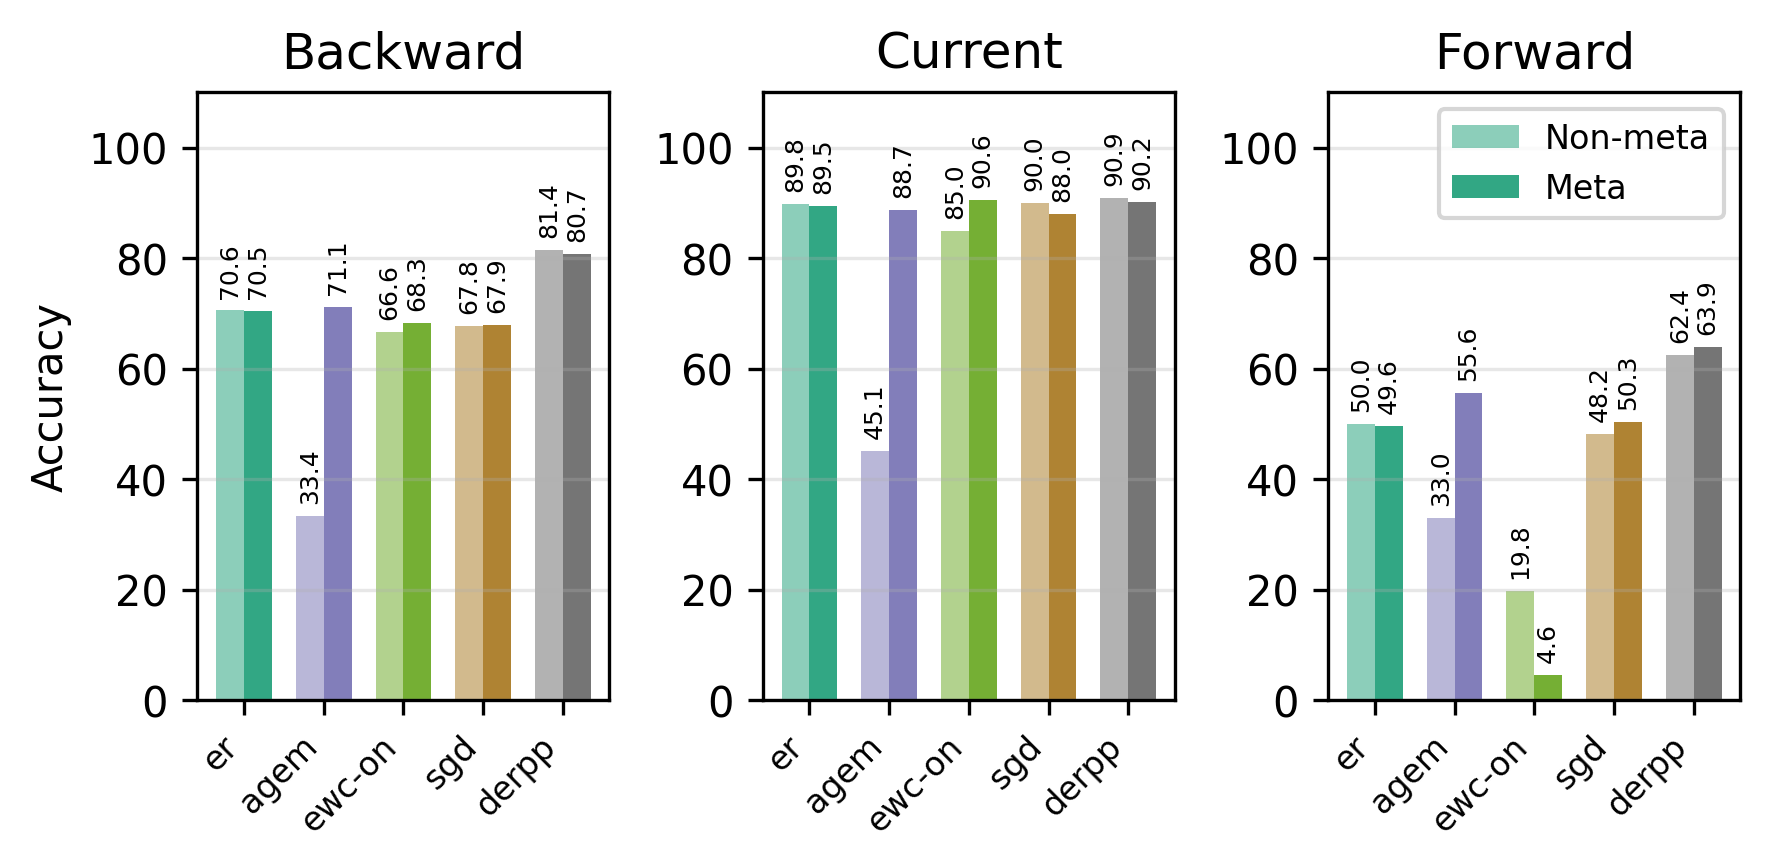
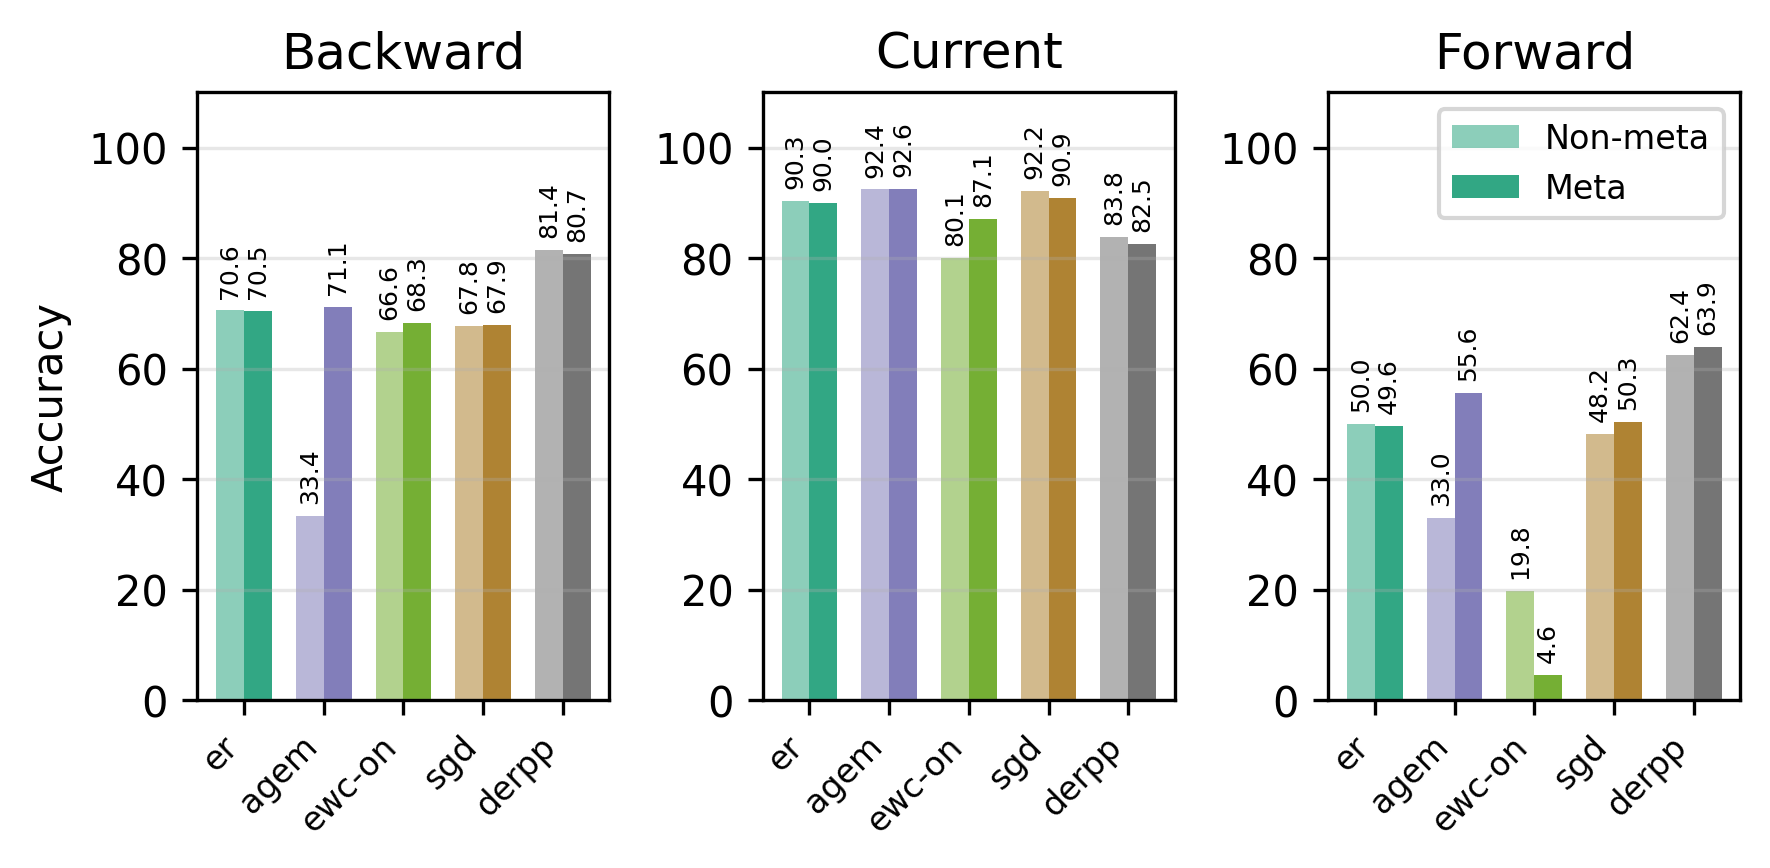
plots

Changed region(s): [[0.435, 0.1555, 0.6525, 0.5288]]

diff --git a/results_for_paper.py b/results_for_paper.py
@@ -1015,14 +1015,15 @@ def plot_meta_improvement(
     results_dir: Path = RESULTS_DIR,
     with_meta: bool = True,
     include_20task: bool = False,
-    forward_only: bool = False
+    forward_only: bool = False,
+    num_lookahead: int = 0
 ) -> None:
     """Plot meta vs non-meta method comparison for backward, current, and forward tasks.
     
     Creates a plot with 3 columns in a single row (or 1 column if forward_only=True):
     - Left: Backward tasks (eval_task_id < checkpoint_num)
     - Middle: Current tasks (eval_task_id == checkpoint_num)
-    - Right: Forward tasks (eval_task_id > checkpoint_num)
+    - Right: Forward tasks (eval_task_id > checkpoint_num + num_lookahead if num_lookahead > 0)
     
     If forward_only=True, only plots the forward transfer column.
     
@@ -1037,6 +1038,7 @@ def plot_meta_improvement(
         with_meta: If True, include CSVs containing 'meta' in the name
         include_20task: If True, include CSVs with '20task' in the name
         forward_only: If True, only plot forward transfer column (default: False)
+        num_lookahead: Number of tasks to skip ahead when computing forward accuracy (default: 0)
     """
     if not results_dir.exists():
         print(f"Error: Results directory {results_dir} does not exist.")
@@ -1204,17 +1206,22 @@ def plot_meta_improvement(
                 k_subset_meta = meta_results[meta_results['k_value'] == k_val]
                 
                 if direction == 'forward':
-                    # Forward: eval_task_id > checkpoint_num
-                    data_non = k_subset_non[k_subset_non['eval_task_id'] > k_subset_non['checkpoint_num']]
-                    data_meta = k_subset_meta[k_subset_meta['eval_task_id'] > k_subset_meta['checkpoint_num']]
+                    # Forward: eval_task_id > checkpoint_num + num_lookahead
+                    forward_threshold = k_subset_non['checkpoint_num'] + num_lookahead
+                    data_non = k_subset_non[k_subset_non['eval_task_id'] > forward_threshold]
+                    forward_threshold = k_subset_meta['checkpoint_num'] + num_lookahead
+                    data_meta = k_subset_meta[k_subset_meta['eval_task_id'] > forward_threshold]
                 elif direction == 'backward':
                     # Backward: eval_task_id < checkpoint_num
                     data_non = k_subset_non[k_subset_non['eval_task_id'] < k_subset_non['checkpoint_num']]
                     data_meta = k_subset_meta[k_subset_meta['eval_task_id'] < k_subset_meta['checkpoint_num']]
                 else:  # current
                     # Current: eval_task_id == checkpoint_num
-                    data_non = k_subset_non[k_subset_non['eval_task_id'] == k_subset_non['checkpoint_num']]
-                    data_meta = k_subset_meta[k_subset_meta['eval_task_id'] == k_subset_meta['checkpoint_num']]
+                    # Evaluate 0-shot performance at the checkpoint task
+                    k_subset_non_cur = non_meta_results[non_meta_results['k_value'] == 0]
+                    k_subset_meta_cur = meta_results[meta_results['k_value'] == 0]
+                    data_non = k_subset_non_cur[k_subset_non_cur['eval_task_id'] == k_subset_non_cur['checkpoint_num']]
+                    data_meta = k_subset_meta_cur[k_subset_meta_cur['eval_task_id'] == k_subset_meta_cur['checkpoint_num']]
                 
                 if not data_non.empty:
                     non_meta_values.append(data_non[metric].mean())
@@ -1314,6 +1321,8 @@ def plot_meta_improvement(
         filename_parts.insert(1, 'no_meta')
     if include_20task:
         filename_parts.append('20task')
+    if num_lookahead > 0:
+        filename_parts.append(f'lookahead{num_lookahead}')
     if use_avg:
         filename_parts.append('avg')
     else:
@@ -1339,6 +1348,8 @@ def main() -> None:
                         help='Include 20-task variant CSVs')
     parser.add_argument('--forward-only', action='store_true',
                         help='For meta_improvement plot type: only plot forward transfer column')
+    parser.add_argument('--num-lookahead', type=int, default=0,
+                        help='For meta_improvement plot type: number of tasks to skip ahead when computing forward accuracy (default: 0)')
     parser.add_argument('--plot-type', type=str, default='stability',
                         choices=['stability', 'forward_transfer', 'improvement', 'sauce', 'meta_improvement'],
                         help='Type of plot to create (default: stability)')
@@ -1387,7 +1398,8 @@ def main() -> None:
             metric=args.metric,
             with_meta=not args.no_meta,
             include_20task=args.include_20task,
-            forward_only=args.forward_only
+            forward_only=args.forward_only,
+            num_lookahead=args.num_lookahead
         )
 
 
